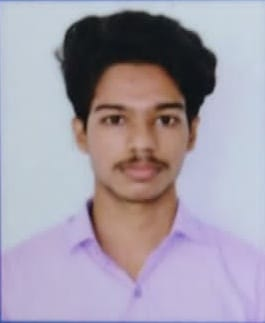
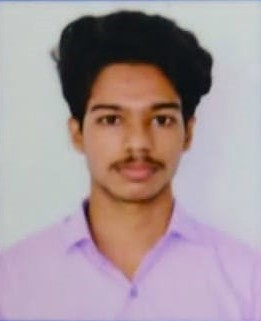
code

diff --git a/index.html b/index.html
@@ -30,7 +30,7 @@
       <hr />
       
       <section id="aboutme">
-        <img src="profile1.jpeg" alt="profile pic" id="profilepic" />
+        <img src="profile.jpeg" alt="profile pic" id="profilepic" />
         <p><h1>ABOUT ME</h1>
          <h3>Hi! I'm shaik fazil I had completed my diploma in Electrical And Electronics.Now I'm studying in B-TECH EEE.I'm very much intrested in IT side so I had taken course in edureka as a full stack web developer.</h3>
         </p>
